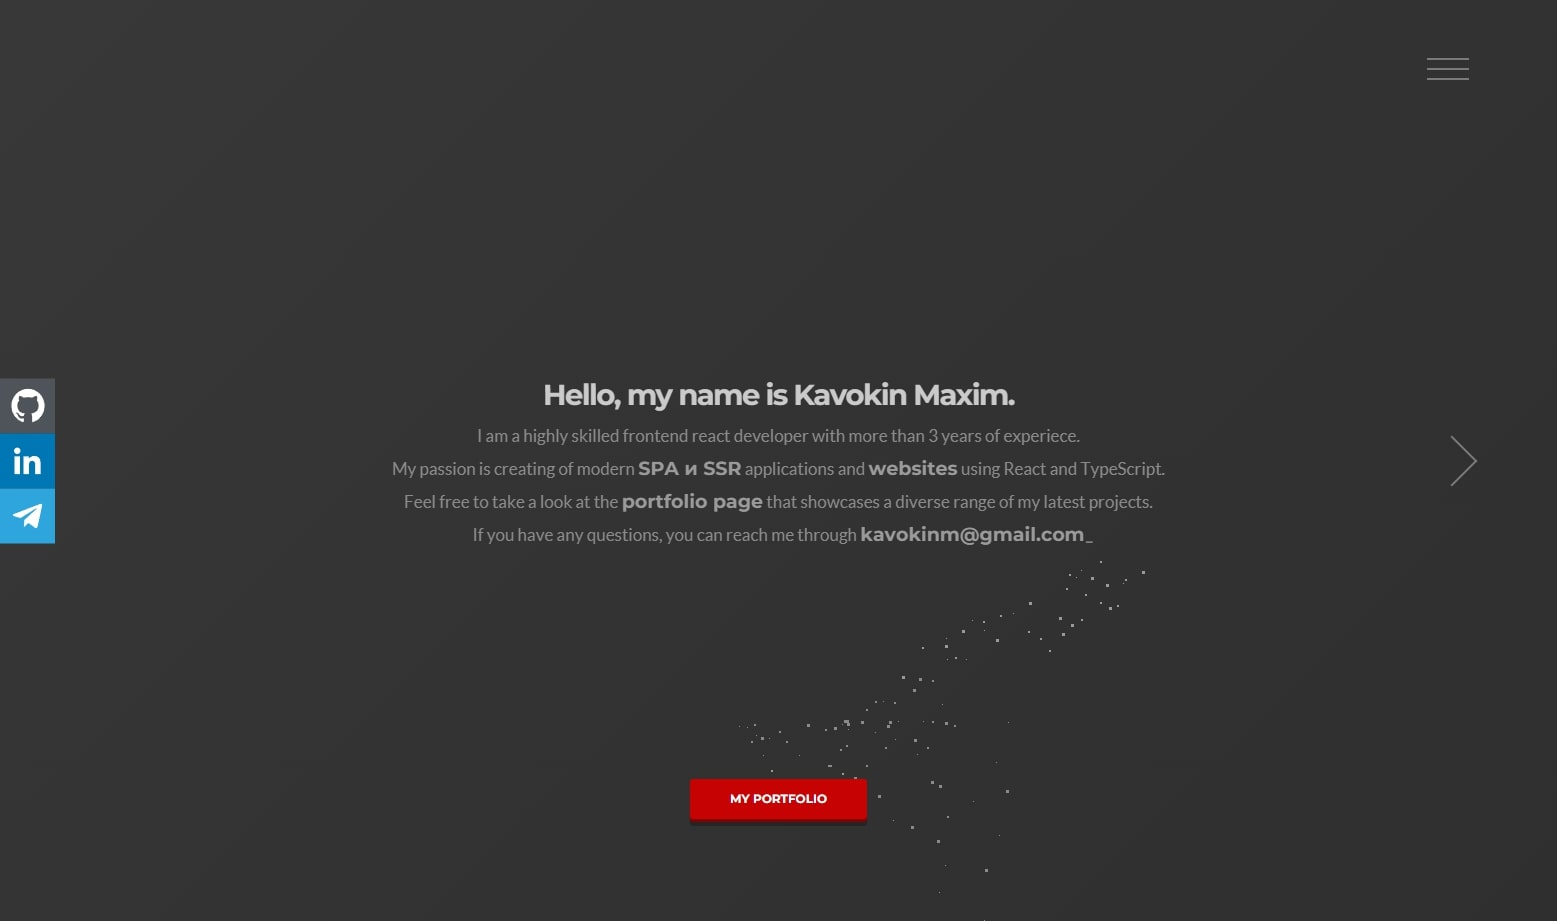
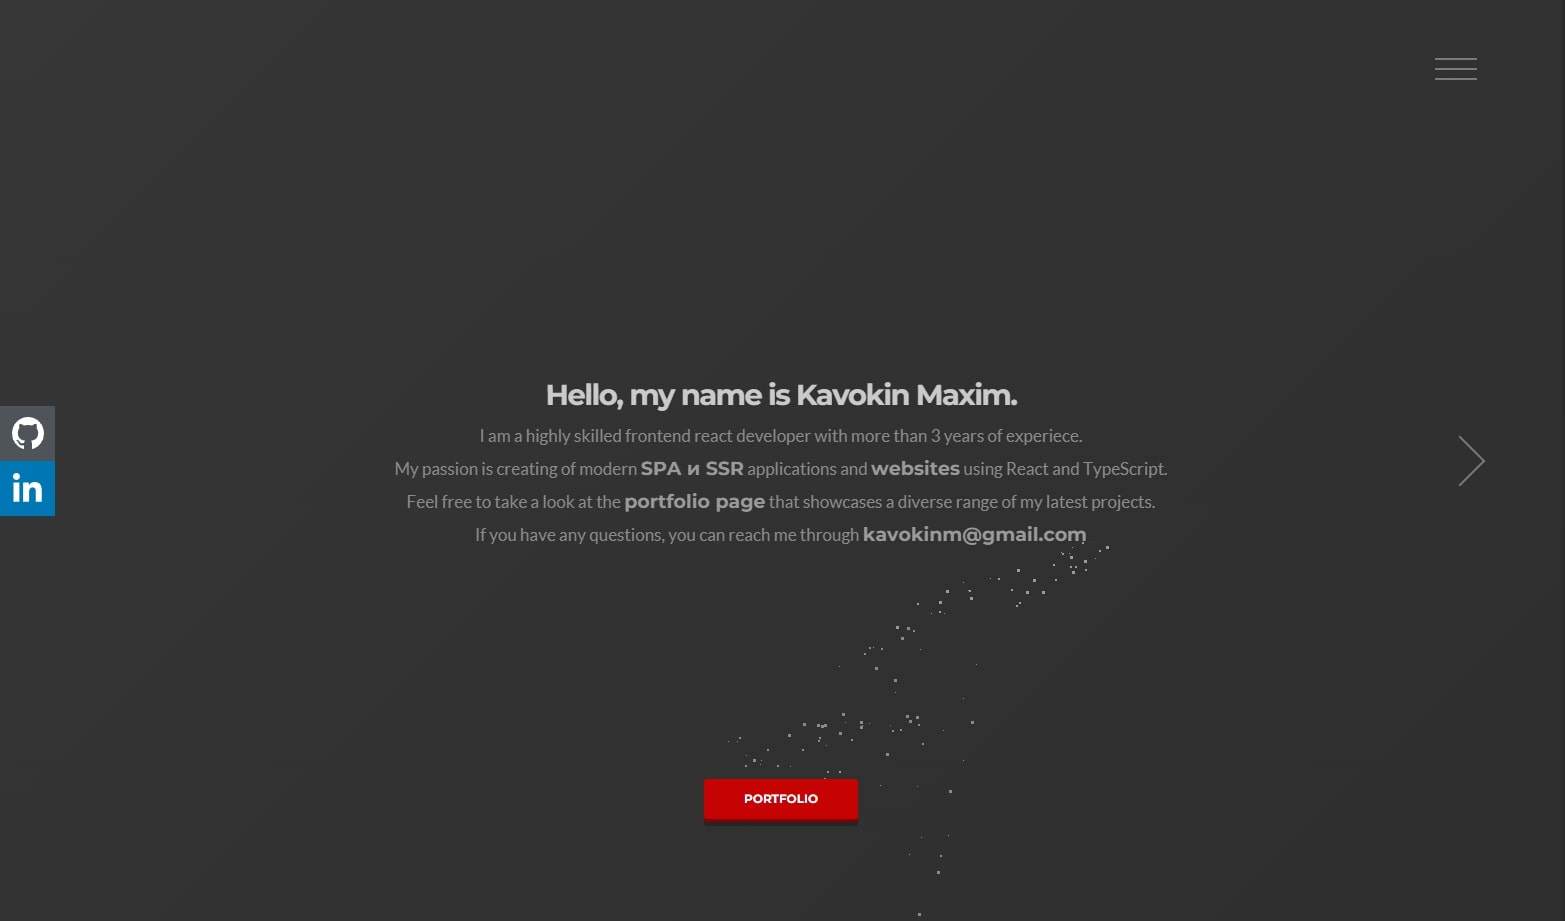
Language caching functionality has been added. Some screenshots as well as links has been updated.

Changed region(s): [[0.3699, 0.3952, 0.7399, 0.608], [0.0, 0.3952, 0.0617, 0.608], [0.4316, 0.8512, 0.5549, 0.8817]]

diff --git a/modules/Project/components/Sections/Sections.tsx b/modules/Project/components/Sections/Sections.tsx
@@ -13,20 +13,32 @@ const Sections: FC<Props> = ({ sections }) => {
       {sections.map((section, i) => {
         return (
           <section key={i} className={styles.section}>
-            {section.map(el => {
+            {section.map((el, i) => {
               const { type } = el;
 
               if (type === 'header') {
-                return <h2 className={styles.header}>{el.content}</h2>;
+                return (
+                  <h2 key={i} className={styles.header}>
+                    {el.content}
+                  </h2>
+                );
               } else if (type === 'description') {
-                return <h3 className={styles.description}>{el.content}</h3>;
+                return (
+                  <h3 key={i} className={styles.description}>
+                    {el.content}
+                  </h3>
+                );
               } else if (type === 'devider') {
-                return <div className={styles.devider} />;
+                return <div key={i} className={styles.devider} />;
               } else if (type === 'paragraph') {
-                return <div className={styles.paragraph}>{el.content}</div>;
+                return (
+                  <div key={i} className={styles.paragraph}>
+                    {el.content}
+                  </div>
+                );
               } else if (type === 'list') {
                 return (
-                  <ul className={styles.list}>
+                  <ul key={i} className={styles.list}>
                     {el.content.map((item, i) => (
                       <li key={i} className={styles.list_item}>
                         <span>

diff --git a/modules/Portfolio/content.ts b/modules/Portfolio/content.ts
@@ -965,14 +965,14 @@ const content: Content = {
   ENG: {
     title: 'portfolio',
     description:
-      'From UI/UX animations to React.JS, Redux, and Node.JS. Check out my latest projects of landing pages and SPA and SSR applications.',
+      'From UI animations to React.JS, Redux, and Node.JS. Check out my latest projects of landing pages and SPA and SSR applications.',
     filterItems,
     tagList,
   },
   RU: {
     title: 'портфолио',
     description:
-      'Начиная UI/UX анимациями, заканчивая React.JS, Redux, и Node.JS. Посмотрите на мои последние проекты лендинг страниц, SPA и SSR приложений.',
+      'Начиная от UI анимаций, заканчивая React.JS, Redux, и Node.JS. Посмотрите на мои последние проекты лендинг страниц, SPA и SSR приложений.',
     filterItems,
     tagList,
   },

diff --git a/modules/Project/projectsContent/portfolio.ts b/modules/Project/projectsContent/portfolio.ts
@@ -18,6 +18,14 @@ const portfolio: Content = {
         path: '/projects/portfolio/screenshots/2.jpg',
         alt: 'image',
       },
+      {
+        path: '/projects/portfolio/screenshots/3.jpg',
+        alt: 'image',
+      },
+      {
+        path: '/projects/portfolio/screenshots/4.jpg',
+        alt: 'image',
+      },
     ],
     sections: [
       [
@@ -197,15 +205,19 @@ const portfolio: Content = {
     },
     images: [
       {
-        path: '/6.jpg',
+        path: '/projects/portfolio/screenshots/1.jpg',
         alt: 'image',
       },
       {
-        path: '/5.jpg',
+        path: '/projects/portfolio/screenshots/2.jpg',
         alt: 'image',
       },
       {
-        path: '/4.jpg',
+        path: '/projects/portfolio/screenshots/3.jpg',
+        alt: 'image',
+      },
+      {
+        path: '/projects/portfolio/screenshots/4.jpg',
         alt: 'image',
       },
     ],

diff --git a/modules/Project/projectsContent/flashcards.ts b/modules/Project/projectsContent/flashcards.ts
@@ -249,15 +249,23 @@ const flashcards: Content = {
     },
     images: [
       {
-        path: '/6.jpg',
+        path: '/projects/flashcards/screenshots/1.jpg',
         alt: 'image',
       },
       {
-        path: '/5.jpg',
+        path: '/projects/flashcards/screenshots/2.jpg',
         alt: 'image',
       },
       {
-        path: '/4.jpg',
+        path: '/projects/flashcards/screenshots/3.jpg',
+        alt: 'image',
+      },
+      {
+        path: '/projects/flashcards/screenshots/4.jpg',
+        alt: 'image',
+      },
+      {
+        path: '/projects/flashcards/screenshots/5.jpg',
         alt: 'image',
       },
     ],

diff --git a/ui/LanguageChange/LanguageChange.tsx b/ui/LanguageChange/LanguageChange.tsx
@@ -10,8 +10,15 @@ const LanguageChange: FC = () => {
 
   useEffect(() => {
     const { language } = navigator;
-    if (/^ru/.test(language)) change_language('RU');
-    if (/^en/.test(language)) change_language('ENG');
+    const cachedLanguage = localStorage?.getItem('language');
+
+    if (/^ru/.test(language) || cachedLanguage === 'RU') {
+      change_language('RU');
+    } else if (/^en/.test(language) || cachedLanguage === 'ENG') {
+      change_language('ENG');
+    } else {
+      change_language('ENG');
+    }
   }, [change_language]);
 
   const onRUClick = useCallback(() => change_language('RU'), [change_language]);

diff --git a/components/SideLinks/components/SideLink/SideLink.tsx b/components/SideLinks/components/SideLink/SideLink.tsx
@@ -15,15 +15,17 @@ const SideLink: FC<Props> = ({ href, title, iconName }) => {
   const Icon = Icons[iconName];
 
   return (
-    <Link href={href}>
-      <li>
-        <a title={title} className={`${styles.link_container} ${styles[iconName]}`}>
-          <div className={styles.link}>
-            <Icon />
-          </div>
-        </a>
-      </li>
-    </Link>
+    <li>
+      <a
+        href={href}
+        title={title}
+        className={`${styles.link_container} ${styles[iconName]}`}
+      >
+        <div className={styles.link}>
+          <Icon />
+        </div>
+      </a>
+    </li>
   );
 };
 

diff --git a/store/actions/languageActions.ts b/store/actions/languageActions.ts
@@ -4,12 +4,16 @@ import { AppActions } from '../types/types';
 import { CHANGE_LANGUAGE } from '../types/types';
 
 // CHANGE_LANGUAGE
-export const change_language = (value: Language): AppActions => ({
-  type: CHANGE_LANGUAGE,
-  payload: {
-    value,
-  },
-});
+export const change_language = (value: Language): AppActions => {
+  localStorage.setItem('language', value);
+
+  return {
+    type: CHANGE_LANGUAGE,
+    payload: {
+      value,
+    },
+  };
+};
 
 // ==================================================
 // ==================================================

diff --git a/modules/Project/projectsContent/natours.ts b/modules/Project/projectsContent/natours.ts
@@ -133,15 +133,19 @@ const tuner: Content = {
     },
     images: [
       {
-        path: '/6.jpg',
+        path: '/projects/natours/screenshots/1.jpg',
         alt: 'image',
       },
       {
-        path: '/5.jpg',
+        path: '/projects/natours/screenshots/2.jpg',
         alt: 'image',
       },
       {
-        path: '/4.jpg',
+        path: '/projects/natours/screenshots/3.jpg',
+        alt: 'image',
+      },
+      {
+        path: '/projects/natours/screenshots/4.jpg',
         alt: 'image',
       },
     ],

diff --git a/modules/Project/projectsContent/gosurf.ts b/modules/Project/projectsContent/gosurf.ts
@@ -157,15 +157,19 @@ const tuner: Content = {
     },
     images: [
       {
-        path: '/6.jpg',
+        path: '/projects/gosurf/screenshots/1.jpg',
         alt: 'image',
       },
       {
-        path: '/5.jpg',
+        path: '/projects/gosurf/screenshots/2.jpg',
         alt: 'image',
       },
       {
-        path: '/4.jpg',
+        path: '/projects/gosurf/screenshots/3.jpg',
+        alt: 'image',
+      },
+      {
+        path: '/projects/gosurf/screenshots/4.jpg',
         alt: 'image',
       },
     ],

diff --git a/modules/Project/projectsContent/tuner.ts b/modules/Project/projectsContent/tuner.ts
@@ -195,15 +195,19 @@ const tuner: Content = {
     },
     images: [
       {
-        path: '/6.jpg',
+        path: '/projects/tuner/screenshots/1.jpg',
         alt: 'image',
       },
       {
-        path: '/5.jpg',
+        path: '/projects/tuner/screenshots/2.jpg',
         alt: 'image',
       },
       {
-        path: '/4.jpg',
+        path: '/projects/tuner/screenshots/3.jpg',
+        alt: 'image',
+      },
+      {
+        path: '/projects/tuner/screenshots/4.jpg',
         alt: 'image',
       },
     ],

diff --git a/modules/Project/projectsContent/glozzom.ts b/modules/Project/projectsContent/glozzom.ts
@@ -141,15 +141,15 @@ const tuner: Content = {
     },
     images: [
       {
-        path: '/6.jpg',
+        path: '/projects/glozzom/screenshots/1.jpg',
         alt: 'image',
       },
       {
-        path: '/5.jpg',
+        path: '/projects/glozzom/screenshots/2.jpg',
         alt: 'image',
       },
       {
-        path: '/4.jpg',
+        path: '/projects/glozzom/screenshots/3.jpg',
         alt: 'image',
       },
     ],

diff --git a/modules/Project/projectsContent/nexter.ts b/modules/Project/projectsContent/nexter.ts
@@ -129,15 +129,15 @@ const tuner: Content = {
     },
     images: [
       {
-        path: '/6.jpg',
+        path: '/projects/nexter/screenshots/1.jpg',
         alt: 'image',
       },
       {
-        path: '/5.jpg',
+        path: '/projects/nexter/screenshots/2.jpg',
         alt: 'image',
       },
       {
-        path: '/4.jpg',
+        path: '/projects/nexter/screenshots/3.jpg',
         alt: 'image',
       },
     ],
